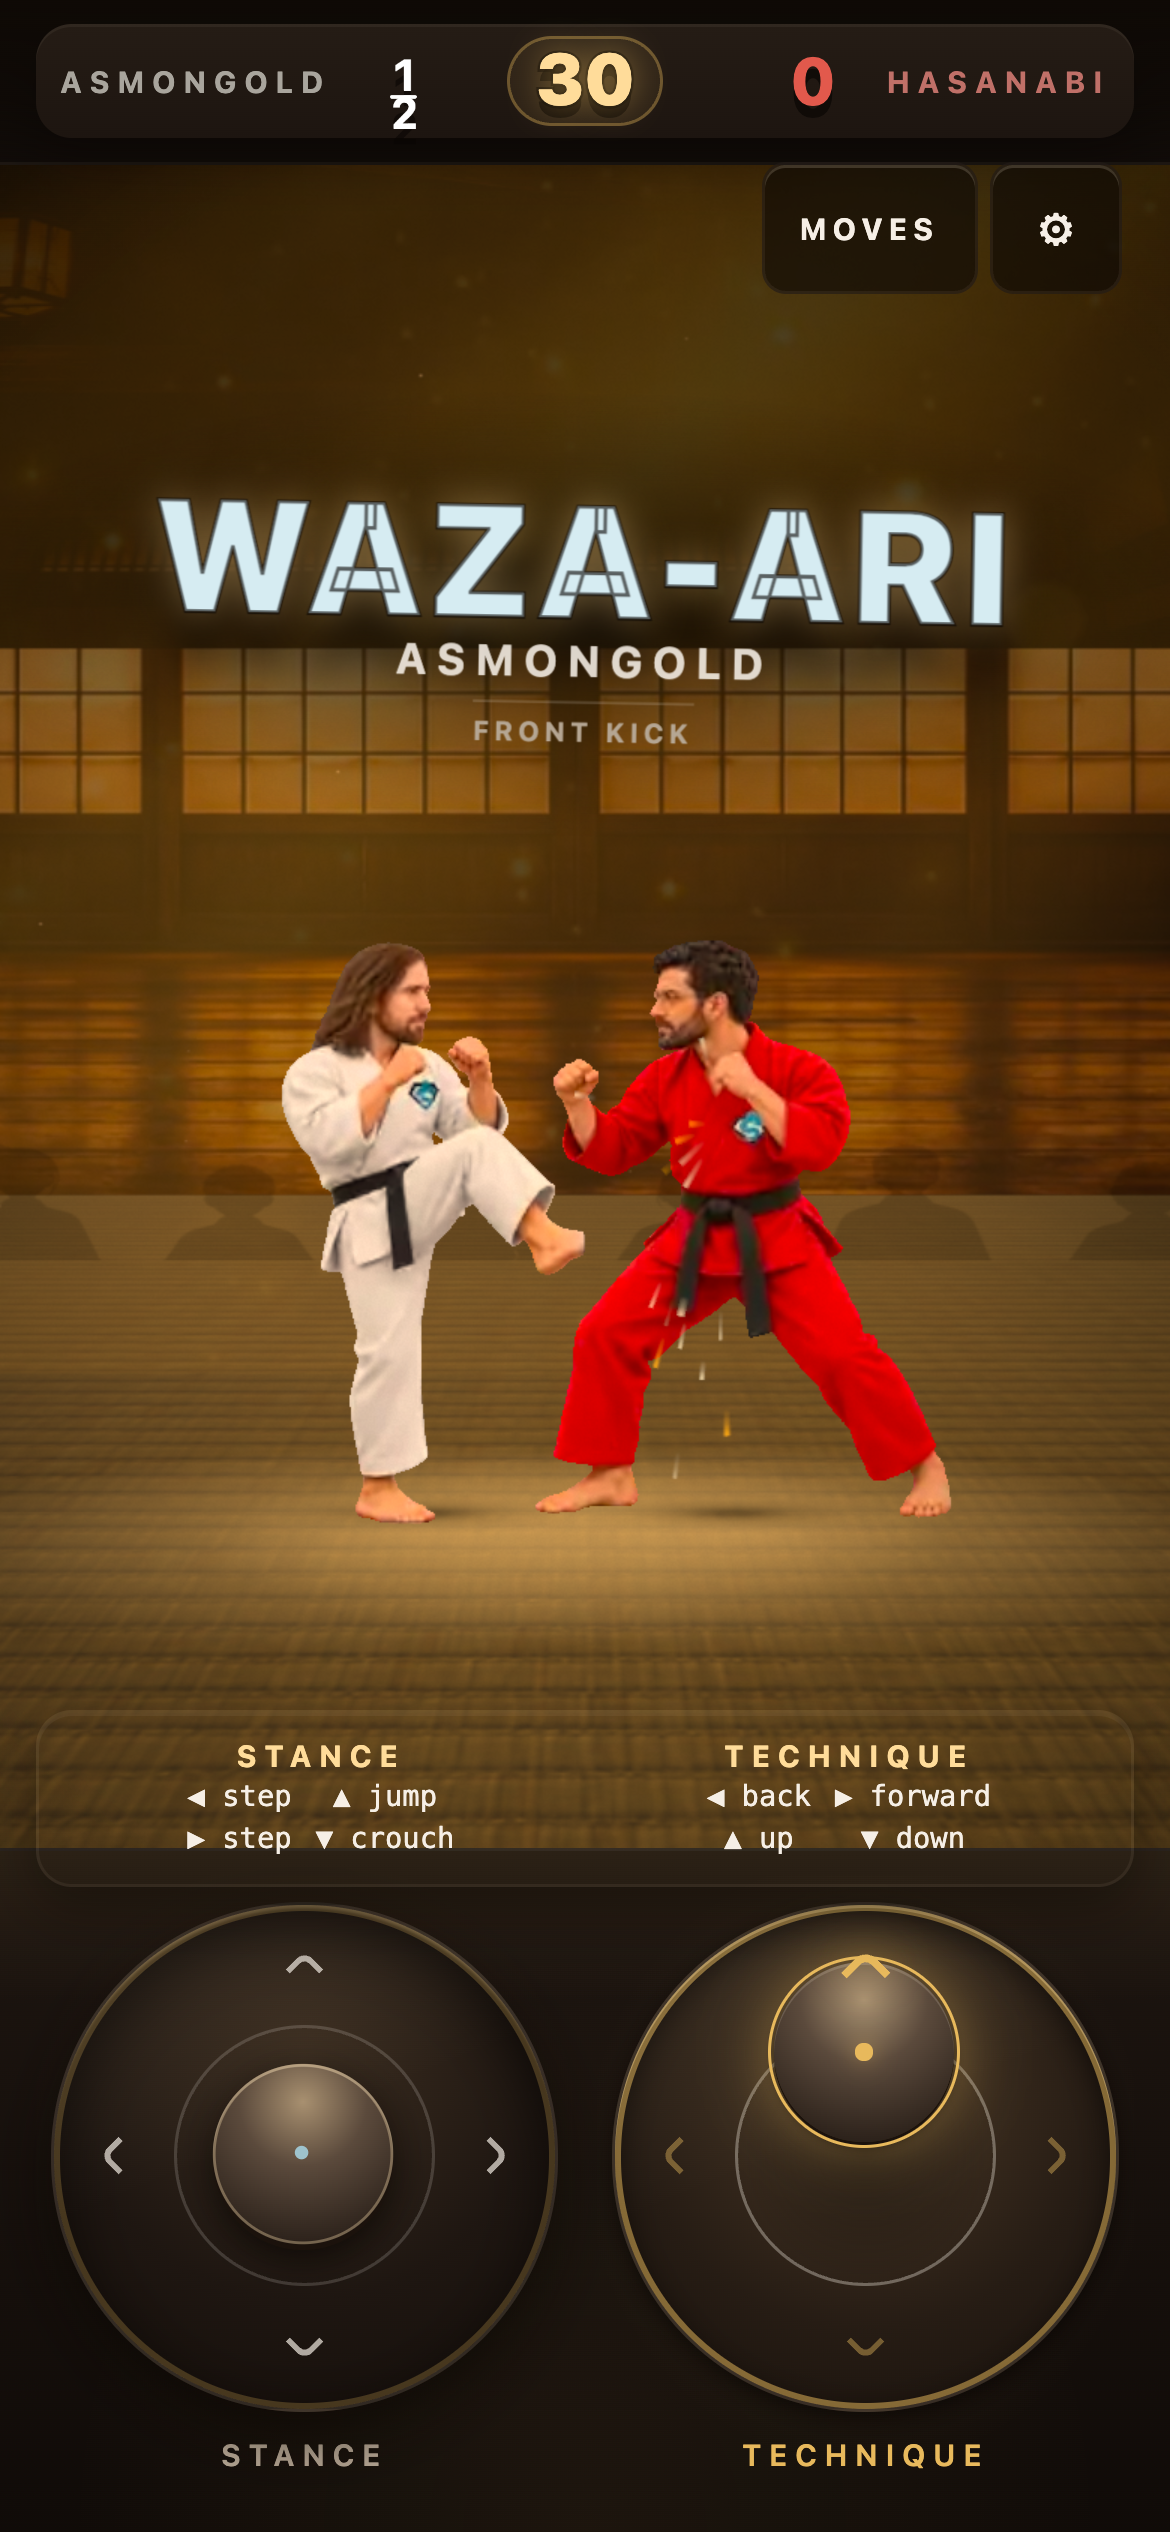
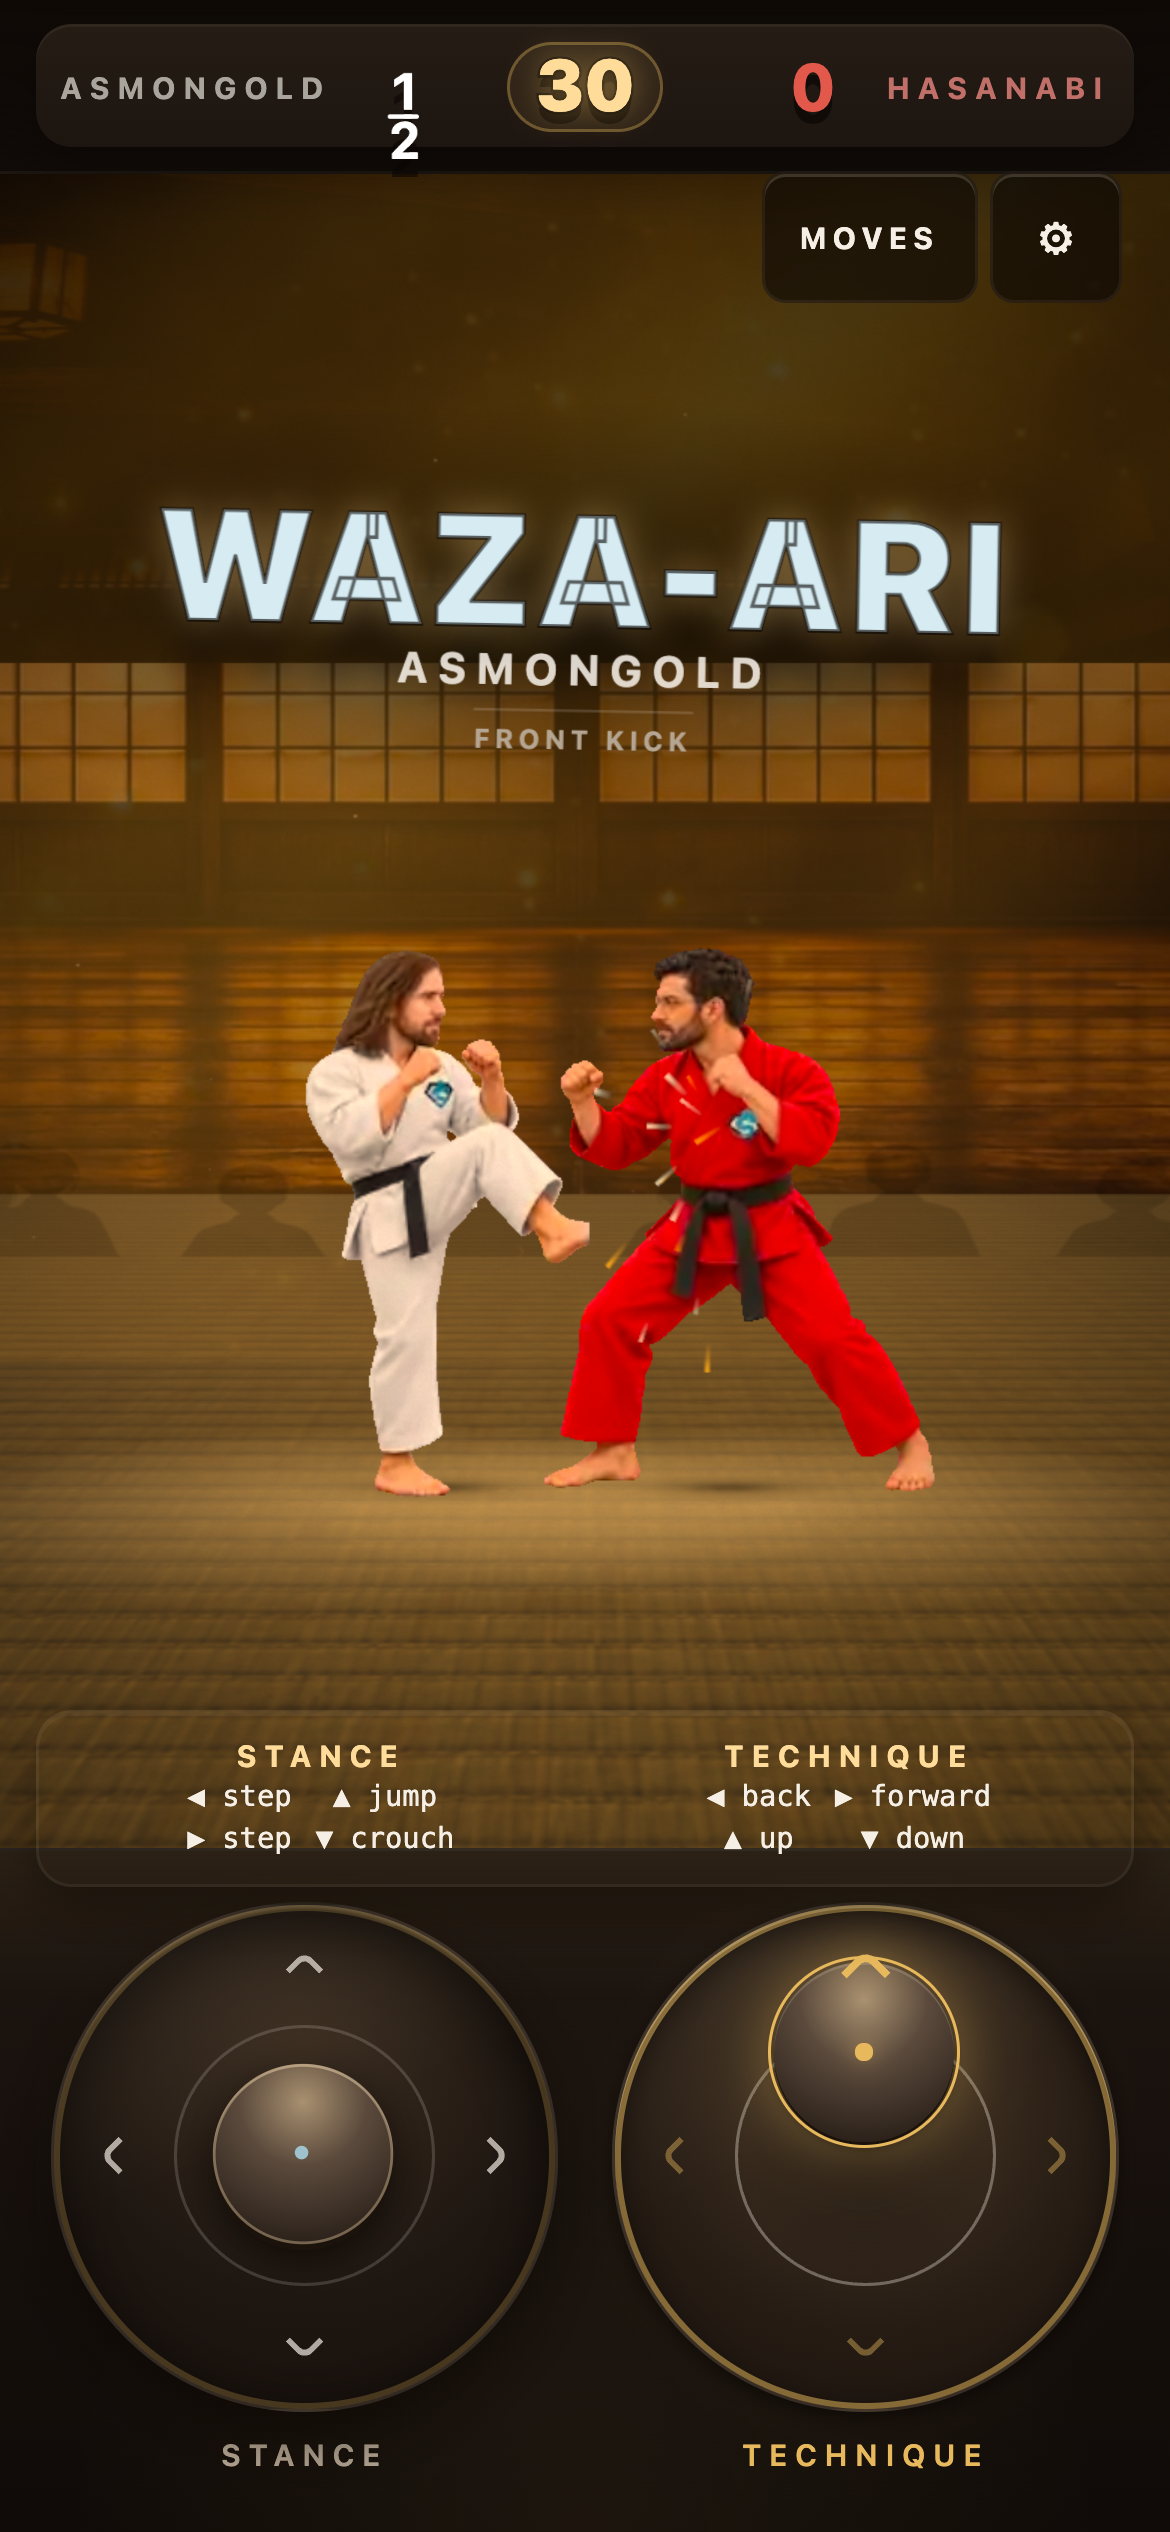
fix(hud): the stacked half sat at cap height because column flex aligns to the first item
gpt-5.6-terra-pro, and it is the first thing to report this.

`vertical-align: baseline` on a column flex container aligns to the *first*
item's baseline — the 1 — not the last. So the stacked fraction built in the
previous round sat up beside the digits with its bar floating at cap height,
reading as a superscript rather than as a fraction. Dropped to the digit
baseline instead.

**This is the first finding in fifty-five rounds that only the new frame could
have produced.** The played-bout capture added in the previous commit is the
first in the set with a non-zero score, and the defect it exposed is in the
rendering of a half point. Every frame before it had the score at zero.

That is the whole argument for extending the instrument, in one concrete
instance: the same reviewer, the same review set, a day apart, and the second
one found something the first could not — not because the model got smarter but
because it was shown a state that had never been photographed.

On the gate: `pnpm check` passed. `pnpm test:e2e` failed on
`boot.spec.ts` › "game keys still type into a text field" in 1.0s. It passes in
isolation on this tree and passes on clean `main`. Both flaky tests in that
suite are now the two typing/focus cases, which is a pattern worth naming
separately: the pre-boot card's own rule is that it must never call `focus()`,
and the two tests that guard that rule are the two that flake.

diff --git a/apps/game/src/styles.css b/apps/game/src/styles.css
@@ -756,10 +756,17 @@ body.show-perf #backend {
   display: inline-flex;
   flex-direction: column;
   align-items: center;
-  vertical-align: baseline;
-  line-height: 0.78;
+  /* Not `vertical-align: baseline`. For a column flex container the baseline it
+     aligns to is the FIRST item's — the 1 — so a stacked fraction sat up beside
+     the digits with its bar floating at cap height, reading as a superscript
+     rather than as a fraction. gpt-5.6-terra-pro put it as "keep half-point
+     scores on one readable baseline", and it is the first thing that reported
+     this: the frame that shows it is the played bout from round 55, because
+     every earlier frame in the set had the score at zero.
+     Dropped to the digit baseline instead. */
+  vertical-align: -0.3em;
+  line-height: 0.82;
   margin-inline-start: 0.04em;
-  translate: 0 -0.12em;
   font-size: 0.52em;
   font-weight: var(--weight-bold);
 }
